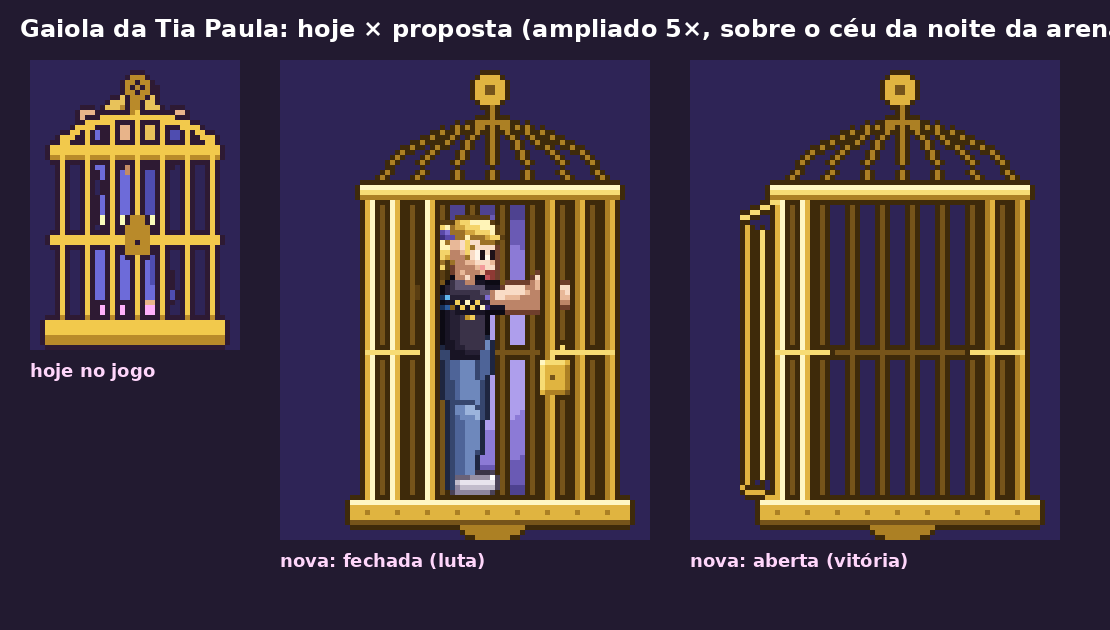
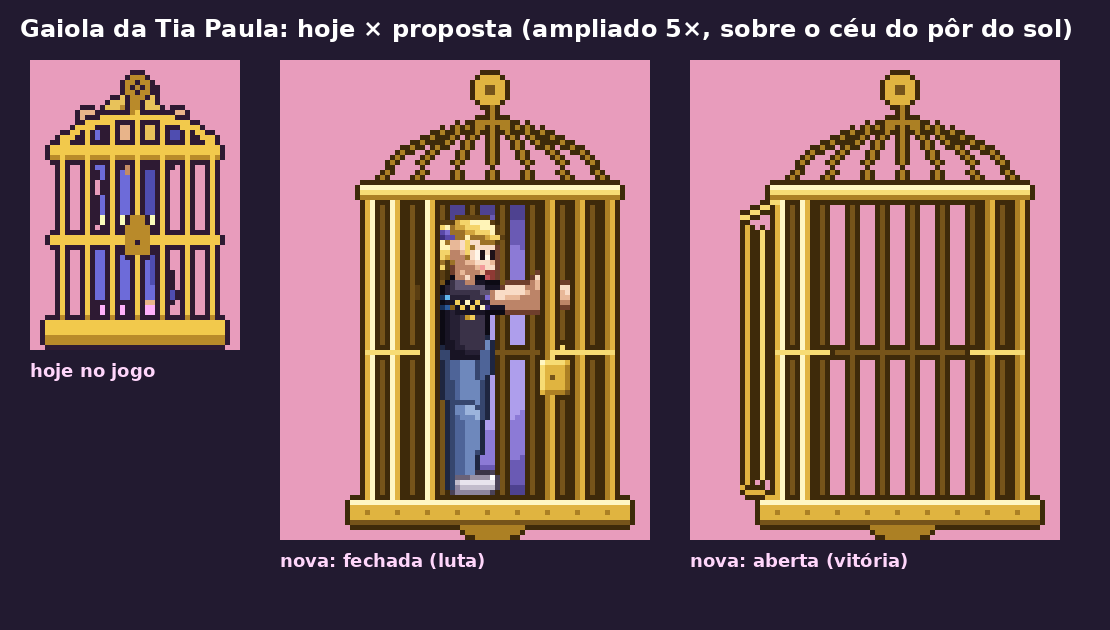
Prévias: luta ao pôr do sol e voo do tapete no crepúsculo
Arena do Chefe com o sol encostando na serra e céu lilás/rosa/laranja; voo
do tapete no crepúsculo (estrelas, horizonte laranja, cidade violeta e janelas
acendendo). Roteiro do CLAUDE.md (11.5 e 11.6) atualizado com a decisão.

Claude-Session: https://claude.ai/code/session_01PQYRHCjcJDFveiPkYtVM8o

diff --git a/ferramentas/arte/previa_tapete.py b/ferramentas/arte/previa_tapete.py
@@ -20,7 +20,7 @@ from PIL import Image, ImageDraw
 
 sys.path.insert(0, os.path.dirname(os.path.abspath(__file__)))
 import gerar_lugares as GL  # noqa: E402
-from cenario import M, Tela, largura_texto  # noqa: E402
+from cenario import M, MATERIAIS, Tela, largura_texto  # noqa: E402
 from previa_elenco import carregar_sprites  # noqa: E402
 
 REPO = GL.REPO
@@ -324,20 +324,73 @@ def sol(img, x, y, r=26):
         d.ellipse([x - rr, y - rr, x + rr, y + rr], fill=c)
 
 
+CEU_CREPUSCULO = ['#2E2A66', '#383274', '#443A84', '#544292', '#6A4A9E', '#8652A4', '#A65AA4', '#C8649C',
+                  '#E2748E', '#F2887E', '#F9A070']
+LUZ_JANELA = ['#FFF2B0', '#FFD878', '#F2B050']
+
+
+def ceu_crepusculo(w):
+    """Crepúsculo: o sol já se pôs atrás da serra; brilho laranja no horizonte, azul-violeta em cima, estrelas."""
+    a = np.zeros((A_TELA, w, 4), np.uint8)
+    c = CEU_CREPUSCULO
+    for y in range(A_TELA):
+        for xb in range(0, w, 8):
+            f = y / 200 + (0.012 if (xb // 8) % 2 else 0)
+            a[y, xb:xb + 8, :3] = GL.hex_rgb(c[min(len(c) - 1, int(f * len(c)))])
+    a[:, :, 3] = 255
+    img = Image.fromarray(a, 'RGBA')
+    d = ImageDraw.Draw(img)
+    rnd = np.random.RandomState(8)
+    for _ in range(w // 12):
+        x, y = rnd.randint(0, w), rnd.randint(2, 80)
+        d.point((x, y), fill='#FFF6D8' if rnd.rand() < 0.4 else '#B8A8F0')
+    for _ in range(w // 160):
+        x, y = rnd.randint(0, w), rnd.randint(6, 60)
+        d.line([(x - 2, y), (x + 2, y)], fill='#FFF6D8'); d.line([(x, y - 2), (x, y + 2)], fill='#FFF6D8')
+    for _ in range(max(2, w // 300)):   # nuvens finas com a barriga laranja (última luz do sol)
+        x, y = rnd.randint(-40, w), rnd.randint(70, 130)
+        cw = rnd.randint(60, 120)
+        d.rectangle([x, y, x + cw, y + 1], fill='#8A5AA8')
+        d.rectangle([x + 6, y + 2, x + cw - 8, y + 3], fill='#F2A07A')
+    return img
+
+
+def acender_janelas(img, cor_ar, forca, chance=0.55, semente=1):
+    """Crepúsculo: puxa a camada para a cor do ar e acende parte das janelas de vidro (amarelo quente, sem o
+    tingido). A escolha é por janela (bloco de 6x7 px), para a janela acender inteira."""
+    a0 = np.array(img)
+    alvo = set()
+    for nome in ('vidro', 'vidro_escuro'):
+        for cor in MATERIAIS[nome][1][:5]:
+            alvo.add(GL.hex_rgb(cor))
+    a = np.array(GL.tingir(img, cor_ar, forca))
+    rnd = np.random.RandomState(semente)
+    liga = {}
+    ys, xs = np.nonzero(a0[:, :, 3])
+    for y, x in zip(ys, xs):
+        if tuple(a0[y, x, :3]) in alvo:
+            k = (x // 6, y // 7)
+            if k not in liga:
+                liga[k] = rnd.rand() < chance
+            if liga[k]:
+                tom = 0 if (y % 7) < 2 else 1 if (x % 6) < 3 else 2
+                a[y, x, :3] = GL.hex_rgb(LUZ_JANELA[tom])
+    return Image.fromarray(a, 'RGBA')
+
+
 def panorama(W=3000):
-    img = GL.ceu(W)
-    sol(img, 2300, 150)
-    img.alpha_composite(GL.morros(W))
+    img = ceu_crepusculo(W)
+    img.alpha_composite(GL.tingir(GL.morros(W), '#3A3070', 0.40))
     meio = Image.new('RGBA', (W, A_TELA), (0, 0, 0, 0))
     mc = morro_coroados()
     meio.alpha_composite(mc, (790, A_TELA - mc.height + 30))
-    img.alpha_composite(GL.tingir(meio, AR, 0.10))
-    img.alpha_composite(GL.tingir(cidade(W), AR, 0.22))
+    img.alpha_composite(acender_janelas(meio, '#4A3A80', 0.32, 0.7, 2))
+    img.alpha_composite(acender_janelas(cidade(W), '#4A3A80', 0.38, 0.5, 3))
     perto = Image.new('RGBA', (W, A_TELA), (0, 0, 0, 0))
     perto.alpha_composite(GL.casario(W, semente=9, base=312))
     un = unifei()
     perto.alpha_composite(un, (1900, A_TELA - un.height))
-    img.alpha_composite(perto)
+    img.alpha_composite(acender_janelas(perto, '#4A3A80', 0.22, 0.45, 4))
     # aves: bandos de maritacas e tucanos em alturas diferentes
     tc = [tucano(True), tucano(False)]
     mt = [maritaca(True), maritaca(False)]

diff --git a/ferramentas/arte/previa_chefe.py b/ferramentas/arte/previa_chefe.py
@@ -143,26 +143,28 @@ def paula(pose_nome):
 # Arena (noite caindo): céu escuro, serra, terraço com arcos, chão de paralelepípedo, 2 plataformas
 # ---------------------------------------------------------------------------------------------------------------
 
-CEU_NOITE = ['#241C48', '#2C2356', '#352A66', '#403276', '#4C3A84', '#5A4290', '#6A4A9A', '#7C54A2']
+# Pôr do sol (a luta acontece quando o sol encosta na serra; em seguida o voo é no crepúsculo)
+CEU_POR_DO_SOL = ['#6C64CC', '#7E72D6', '#9480DA', '#AE8AD6', '#C892CC', '#E09CBC', '#F2A8A6', '#FBB88C', '#FFC878']
 
 
 def arena():
     a = np.zeros((A_T, L_T, 4), np.uint8)
+    ceu = CEU_POR_DO_SOL
     for y in range(A_T):
         for xb in range(0, L_T, 8):
-            f = y / 210 + (0.015 if (xb // 8) % 2 else 0)
-            a[y, xb:xb + 8, :3] = GL.hex_rgb(CEU_NOITE[min(len(CEU_NOITE) - 1, int(f * len(CEU_NOITE)))])
+            f = y / 190 + (0.015 if (xb // 8) % 2 else 0)
+            a[y, xb:xb + 8, :3] = GL.hex_rgb(ceu[min(len(ceu) - 1, int(f * len(ceu)))])
     a[:, :, 3] = 255
     img = Image.fromarray(a, 'RGBA')
     d = ImageDraw.Draw(img)
-    rnd = np.random.RandomState(3)
-    for _ in range(40):
-        x, y = rnd.randint(0, L_T), rnd.randint(4, 120)
-        d.point((x, y), fill='#FFF6D8' if rnd.rand() < 0.5 else '#C8B8F0')
-    for x, y in ((60, 30), (300, 22)):
-        d.line([(x - 2, y), (x + 2, y)], fill='#FFF6D8'); d.line([(x, y - 2), (x, y + 2)], fill='#FFF6D8')
-    d.ellipse([200, 40, 222, 62], fill='#FFF2B0'); d.ellipse([207, 38, 229, 60], fill=CEU_NOITE[1])  # lua
-    img.alpha_composite(GL.tingir(GL.morros(L_T), '#2A2252', 0.45))
+    # sol grande e baixo, encostando na serra (em faixas, sem degradê)
+    sx, sy = 150, 122
+    for r, cor in ((44, '#FFC890'), (36, '#FFD49A'), (28, '#FFE2A0'), (22, '#FFF0B0'), (17, '#FFF8D0')):
+        d.ellipse([sx - r, sy - r, sx + r, sy + r], fill=cor)
+    for y, x0, x1 in ((40, 300, 400), (56, 340, 460), (30, 20, 90)):   # nuvens compridas iluminadas por baixo
+        d.rectangle([x0, y, x1, y + 2], fill='#F6C2C8')
+        d.rectangle([x0 + 8, y + 3, x1 - 10, y + 4], fill='#FFD8A8')
+    img.alpha_composite(GL.tingir(GL.morros(L_T), '#B0607A', 0.22))
     # terraço: colunas com arcos ao fundo
     t = Tela(L_T, A_T, semente=4)
     cr = M['creme']
@@ -181,7 +183,7 @@ def arena():
     t.hlinha(0, L_T - 1, 228, cr, 1)
     t.reboco(0, 150, L_T - 1, 239, cr, n=12)
     t.contorno()
-    img.alpha_composite(GL.tingir(t.imagem(), '#2A2252', 0.35))
+    img.alpha_composite(GL.tingir(t.imagem(), '#E8906A', 0.12))   # luz quente do sol baixo
     # plataformas de madeira (mapa: colunas 4-8 e 20-24 na linha 11)
     p = Tela(L_T, A_T, semente=5)
     for c0 in (4, 20):
@@ -275,14 +277,14 @@ def gaiola_atual():
 def main():
     os.makedirs(SAIDA, exist_ok=True)
     k = 5
-    fundo_cor = (46, 36, 86, 255)
+    fundo_cor = (232, 156, 188, 255)
     itens = [('hoje no jogo', gaiola_atual()), ('nova: fechada (luta)', gaiola_com(paula('socorro'))),
              ('nova: aberta (vitória)', gaiola_com(None, aberta=True))]
     W = sum(i.width * k + 40 for _, i in itens) + 40
     H = max(i.height for _, i in itens) * k + 150
     out = Image.new('RGBA', (W, H), (34, 26, 48, 255))
     dr = ImageDraw.Draw(out)
-    GL.rotulo(dr, (20, 14), 'Gaiola da Tia Paula: hoje × proposta (ampliado 5×, sobre o céu da noite da arena)', 24)
+    GL.rotulo(dr, (20, 14), 'Gaiola da Tia Paula: hoje × proposta (ampliado 5×, sobre o céu do pôr do sol)', 24)
     x = 30
     for rot, im in itens:
         f = Image.new('RGBA', im.size, fundo_cor)

diff --git a/CLAUDE.md b/CLAUDE.md
@@ -292,8 +292,8 @@ export const TESTE = [
 2. **Intro** (3 caixas de texto, com opção de pular): Aladdin está em Itajubá e descobre que vai ter espetáculo no Teatro do Colégio G9, mas precisa buscar os ingressos no Espaço Paula De Marco.
 3. **Fase 1, Itajubá** (60 a 90 s): rua com casas, praça e barracas, morros ao fundo em parallax de 2 ou 3 camadas. **Lugares reais, nesta ordem** (pedido do Pedro, 01/11/2026; fotos e detalhes em `references/lugares/reference-notes.md`): Clube Itajubense (no fundo) → fonte da praça com o busto do Teodomiro Santiago → Café do Vadinho → Igreja Matriz → posto Esso, "o menor posto de gasolina do mundo" (placa "ESSO" em letras de pixel próprias; decisão do Pedro, 01/11/2026) → Praça do Soldado (estátua e helicóptero). Pular a fonte, quicar nos toldos, passar pelas capivaras. Com pisão ou maçã, a capivara pega a maçã e sai feliz comendo, ou adormece com um "zzz". Sapatilhas para coletar e 1 checkpoint no meio. Termina na porta do Espaço Paula De Marco.
 4. **Fase 2, Espaço Paula De Marco** (30 a 45 s, sem inimigos): estúdio de dança com espelhos, barras e piso de madeira. Os personagens do espetáculo estão ensaiando; chegar perto de cada um mostra uma fala. Tia Claudia entrega os ingressos e o contador aparece no HUD. Em seguida, alguém chega correndo: o Jafar levou a Tia Paula! Transição para o chefe.
-5. **Fase 3, Resgate** (arena de uma tela): Tia Paula presa numa gaiola no canto. O Jafar flutua de um lado para o outro, lança 3 projéteis em leque a cada poucos segundos e fica vulnerável (piscando) logo depois. 5 acertos de maçã para vencer; maçãs reaparecem no chão da arena. Barra de vida do chefe no topo. Ao vencer, o Jafar some numa nuvem de fumaça e a gaiola se abre.
-6. **Fase 4, Tapete** (35 a 45 s, rolagem automática): Aladdin e Tia Paula voam sobre Itajubá ao entardecer. Segurar sobe, soltar desce. Obstáculos: pássaros, pipas e fios. Bater só faz piscar e perder sapatilhas, nunca para o jogo. Termina na fachada do Teatro do Colégio G9.
+5. **Fase 3, Resgate** (arena de uma tela, **ao pôr do sol**: o sol encostando na serra; decisão do Pedro, 01/11/2026): Tia Paula presa numa gaiola no canto, **visível dentro dela**. O Jafar flutua de um lado para o outro, lança 3 projéteis em leque a cada poucos segundos e fica vulnerável (piscando) logo depois. 5 acertos de maçã para vencer; maçãs reaparecem no chão da arena. Barra de vida do chefe no topo. Ao vencer, o Jafar some numa nuvem de fumaça e a gaiola se abre.
+6. **Fase 4, Tapete** (35 a 45 s, rolagem automática): Aladdin e Tia Paula voam sobre Itajubá **no crepúsculo** (sol já posto, brilho laranja no horizonte, primeiras estrelas, janelas acendendo), passando pelo Hotel Coroados e pela UNIFEI, com a serra ao fundo; os pássaros são tucanos e maritacas. Segurar sobe, soltar desce. Obstáculos: pássaros, pipas e fios. Bater só faz piscar e perder sapatilhas, nunca para o jogo. Termina na fachada do Teatro do Colégio G9.
 7. **Final**: as cortinas se abrem e Tia Paula, no palco, anuncia que o espetáculo vai começar. Depois aparece um cartão com data, horário, local e ingresso, e os botões:
    - QUERO INGRESSOS (WhatsApp com a mensagem pronta);
    - COMPARTILHAR (`navigator.share` com um texto como "Peguei X sapatilhas no jogo do Aladdin da Paula De Marco! Jogue também:" e o link; sem suporte, copia o link);

diff --git a/ferramentas/arte/previas/tapete/README.md b/ferramentas/arte/previas/tapete/README.md
@@ -11,7 +11,7 @@ Gerado por `python3 ferramentas/arte/previa_tapete.py`.
 | `aves.png` | tucano-toco e maritaca, 2 quadros de asa cada (6×) |
 | `nativo/*.png` | hotel, morro com o hotel, UNIFEI, tucano e maritaca em 1× |
 
-Camadas (iguais às da cena): céu de entardecer com sol baixo · Serra da Mantiqueira verde (0,15) · morro do Coroados
+Camadas (iguais às da cena): céu de crepúsculo com estrelas · Serra da Mantiqueira verde (0,15) · morro do Coroados
 e cidade com casario e prédios, puxados para o lilás (0,35) · telhados de perto e UNIFEI (1) · aves e tapete.
 
 - **Hotel Coroados:** prédio comprido de 2 andares, branco com faixas e pilares vermelhos, telhado de barro com placas
@@ -25,3 +25,5 @@ e cidade com casario e prédios, puxados para o lilás (0,35) · telhados de per
 **Falta:** as fotos do Hotel Coroados e da UNIFEI vieram só no chat. Salvar em `references/lugares/` (por exemplo
 `7-hotel-coroados.jpg`, `8-unifei-1.jpg` a `8-unifei-3.jpg`) para gerar as pranchas foto × pixel art.
 A Tia Paula no tapete ainda é a provisória antiga (será trocada pelo sprite novo, ver `../personagens/`).
+
+**Hora do dia (Pedro, 01/11/2026):** o voo é **no crepúsculo**, logo depois do pôr do sol da luta: sol já escondido, céu violeta em cima e laranja no horizonte, primeiras estrelas, serra azulada, cidade puxada para o violeta e **janelas acendendo** (amarelo quente, cerca de metade).

diff --git a/ferramentas/arte/previas/chefe/README.md b/ferramentas/arte/previas/chefe/README.md
@@ -23,3 +23,5 @@ Proposta:
 Ajustes no jogo quando for implementar: `gBase` de 170 para ~126 (topo da gaiola em y 30), a Tia Paula vai para a
 camada entre as grades (desenhar gaiola de trás → Tia Paula → gaiola da frente), e o tween de balanço move as 3 peças
 juntas. A arena nova (noite, serra verde, chão de paralelepípedo, Jafar maior) também aparece nas telas.
+
+**Hora do dia (Pedro, 01/11/2026):** a luta é **ao pôr do sol** (sol grande encostando na serra, céu lilás → rosa → laranja), para o voo seguinte acontecer no crepúsculo. Sequência do dia: Fase 1 fim de tarde → Espaço (interno) → Chefe pôr do sol → Tapete crepúsculo → Final à noite no teatro (19h).
